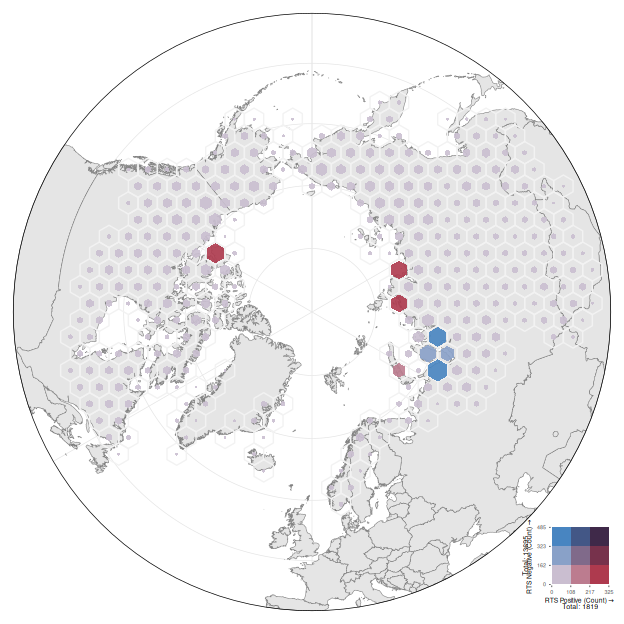
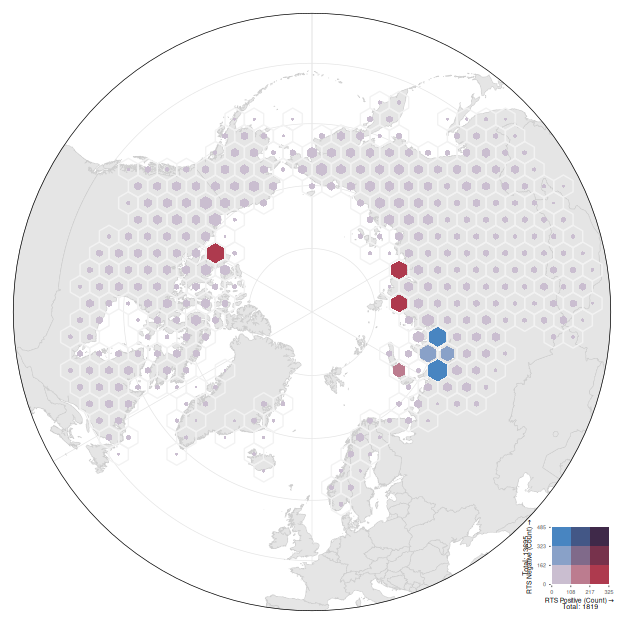
syncs training_data_distribution.md with latest version of traing_data_distribution.qmd

diff --git a/domain/training_data_distribution.md b/domain/training_data_distribution.md
@@ -1,5 +1,4 @@
 # Training Data Distribution
-
 Heidi Rodenhizer
 
 # Check Training Polygon Counts by Subregion
@@ -17,22 +16,20 @@ region_train_count = train_meta |>
 region_train_count
 ```
 
-```         
-# A tibble: 50 × 3
-   RegionName                        RTSCount RTSPercent
-   <chr>                                <int>      <dbl>
- 1 Trans-Baikal Bald Mountain tundra     1386     0.0893
- 2 Taimyr-Central Siberian tundra        1294     0.0834
- 3 Yamal-Gydan tundra                    1270     0.0819
- 4 East Siberian taiga                   1145     0.0738
- 5 West Siberian taiga                    784     0.0505
- 6 Russian Bering tundra                  780     0.0503
- 7 Northwest Territories taiga            692     0.0446
- 8 Muskwa-Slave Lake taiga                610     0.0393
- 9 Urals montane forest and taiga         593     0.0382
-10 Eastern Canadian Shield taiga          452     0.0291
-# ℹ 40 more rows
-```
+    # A tibble: 50 × 3
+       RegionName                        RTSCount RTSPercent
+       <chr>                                <int>      <dbl>
+     1 Trans-Baikal Bald Mountain tundra     1386     0.0893
+     2 Taimyr-Central Siberian tundra        1294     0.0834
+     3 Yamal-Gydan tundra                    1270     0.0819
+     4 East Siberian taiga                   1145     0.0738
+     5 West Siberian taiga                    784     0.0505
+     6 Russian Bering tundra                  780     0.0503
+     7 Northwest Territories taiga            692     0.0446
+     8 Muskwa-Slave Lake taiga                610     0.0393
+     9 Urals montane forest and taiga         593     0.0382
+    10 Eastern Canadian Shield taiga          452     0.0291
+    # ℹ 40 more rows
 
 ![](training_data_distribution_files/figure-commonmark/unnamed-chunk-10-1.png)
 
@@ -45,12 +42,10 @@ small_clusters_percent = region_train_count |>
 small_clusters_percent
 ```
 
-```         
-# A tibble: 1 × 1
-  TotalPercentSmallClusters
-                      <dbl>
-1                         1
-```
+    # A tibble: 1 × 1
+      TotalPercentSmallClusters
+                          <dbl>
+    1                         1
 
 # Map Training Data
 
@@ -181,10 +176,8 @@ legend <- bi_legend(
   )
 ```
 
-```         
-Coordinate system already present.
-ℹ Adding new coordinate system, which will replace the existing one.
-```
+    Coordinate system already present.
+    ℹ Adding new coordinate system, which will replace the existing one.
 
 ``` r
 # legend
@@ -205,7 +198,7 @@ train_hexplot = ggplot(world_north) +
     linewidth = 0.25
   ) +
   geom_sf(
-    color = 'gray50',
+    color = 'gray80',
     fill = 'gray90'
   ) +
   geom_sf(
@@ -219,7 +212,7 @@ train_hexplot = ggplot(world_north) +
     data = train_hex,
     aes(geometry = geometry_scaled, fill = bi_class),
     color = "transparent",
-    alpha = 0.9
+    alpha = 1
   ) +
   bi_scale_fill(pal = custom_pal3, dim = 3) +
   geom_sf(
